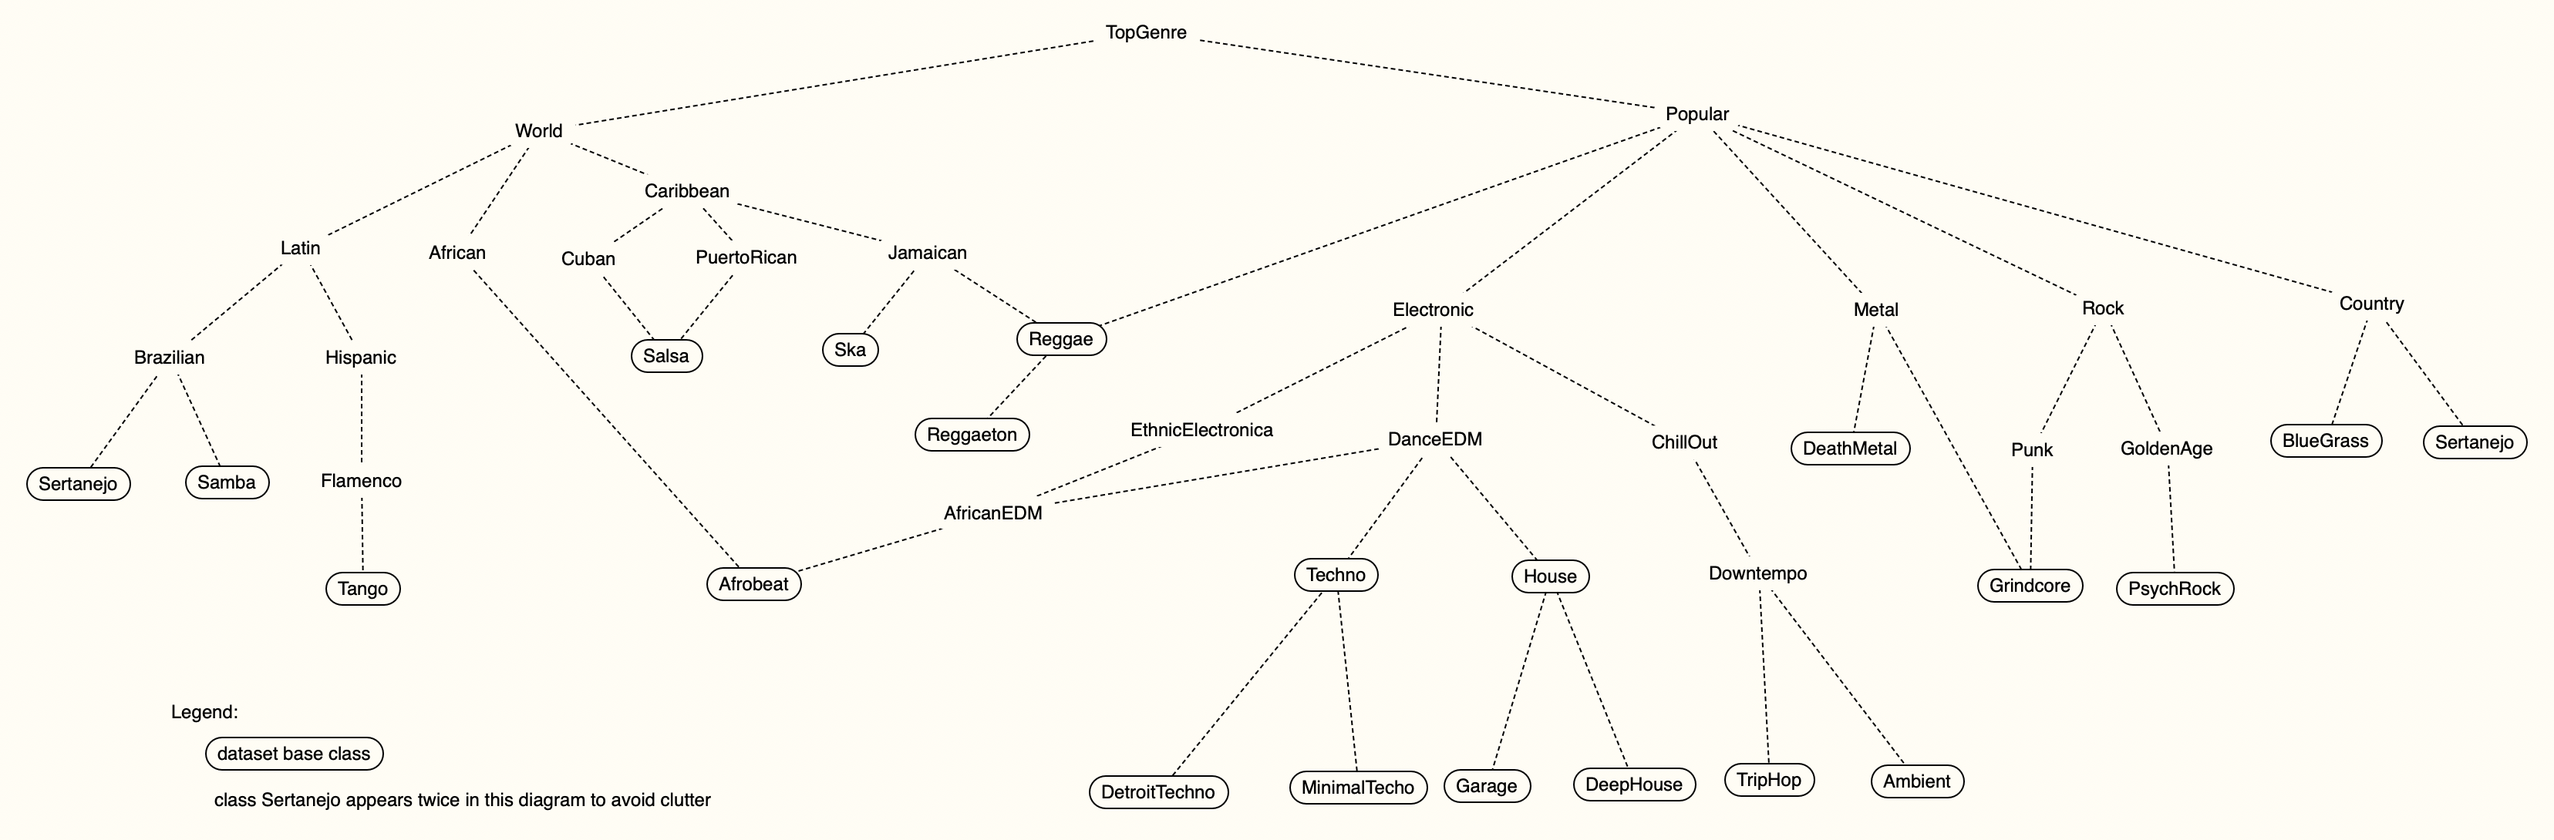
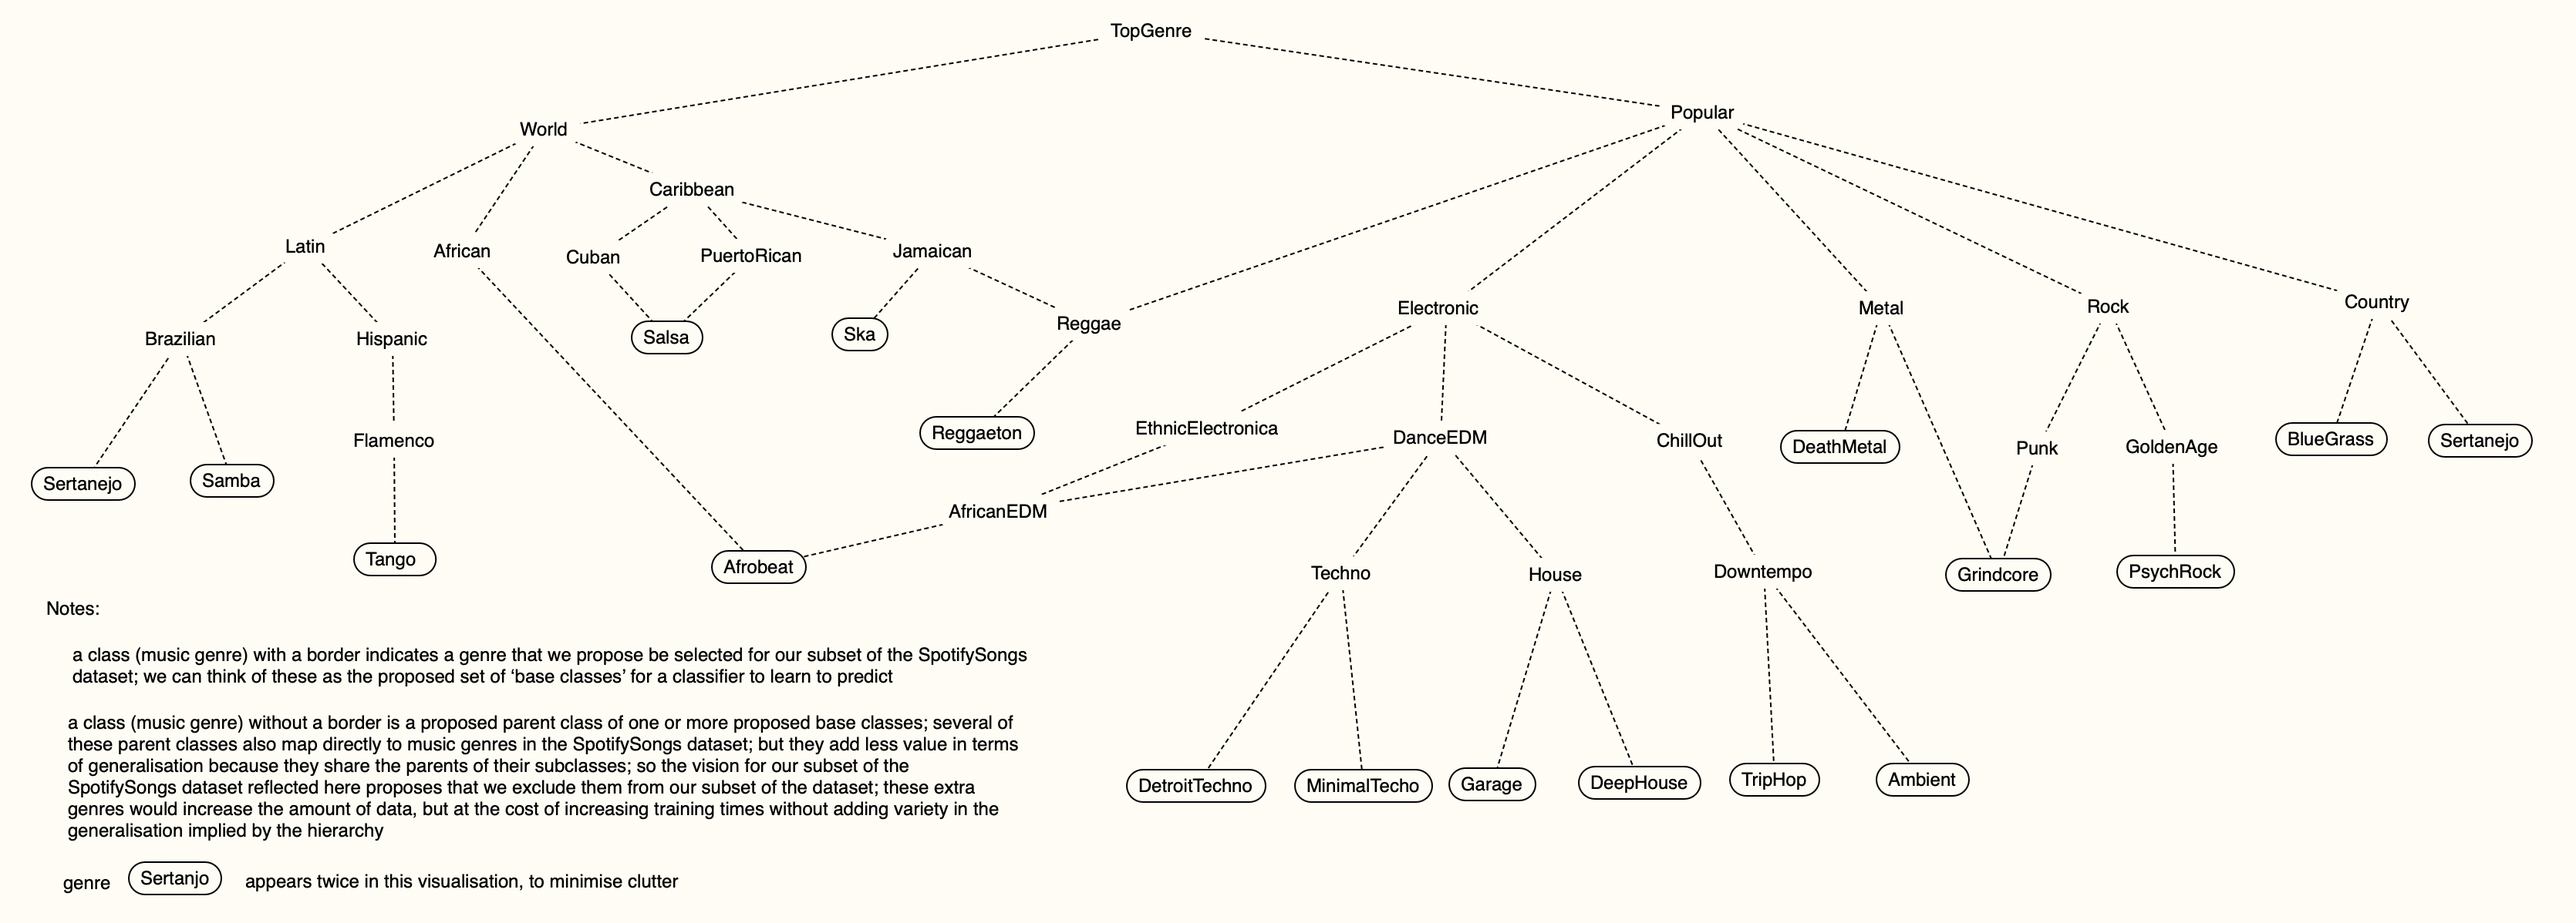
update

diff --git a/README.md b/README.md
@@ -23,15 +23,19 @@ available at:
 * a script for getting familiar with the dataset
 * performs some rudimentary exploratory data analysis
 * feel free to use it as a starting point for evaluating the dataset
-* download the dataset; place it somewhere on your local drive; adjust the directory locations in the script; run each section and inspect the results written to your console
+* download the dataset; place it somewhere on your local drive; adjust the directory locations in the script; run the script section-by-section and inspect the results written to your IDE's console
 
 `The 114 track genres.txt`
-* a listing of the 114 track genres (classes) in the dataset
+* a listing of the 114 unique track genres (classes) in the dataset
 
-the idea behind working with this dataset
-* 114 classes (music genres) is more than we need or want, but that's ok, we don't need to use the whole dataset; we can select a subset whose shape we like
-* because the dataset is so nicely balanced, we can select whichever subset of music genres we prefer and still have a perfectly balanced dataset with enough data that we can safely split the master subset into training, validation and test subsets
-* the domain of music genres lends itself to class hierarchy creation; the domain is both flexible and familiar; crafting a reasonable companion music genre class hierarchy looks feasible
+why this dataset feels like a good candidate:
+* for me, the dataset has several attractive features that suit our needs
+* 114 classes (music genres) is a lot, but that's ok: we don't need to use them all; we can select a subset of music genres that a) gives us a moderate number of (base) classes and b) facilitates the quick design of a custom class hierarchy of suitable size, variety and complexity
+* music genre classification is a domain that's flexible and familiar; our prospects for designing a custom music genre class hierarchy that fits the dataset and our experimental needs (for reasonable variety and complexity in the generalisation implied by the hierarchy) are good
+* each music genre has exactly 1000 data samples; so no matter which subset of music genres we select, we'll still have a perfectly balanced dataset in the end; so we've got full freedom to choose a subset of music genres that facilitate the design of a class hierarchy with characteristics we like and want
+* if we select something on the order of, say, N=20 music genres (base classes), we'll have a dataset of 20,000 samples; that leaves plenty of scope for further splitting the data into reasonably-sized (and balanced) training, validation and test sets
+* a dataset of 20,000 to 30,000 samples, say, should mean training will still be fast and easy on laptops; no need to mess with GPUs and cloud platforms and long training turn-around times
+* the flat, friendly features of this tabular dataset mean that much of the code and experiments already in place should be little impacted by migrating from the Zoo dataset 
 
 datawrangling
 * the exploratory data analysis suggests some data wrangling of the input features may be appropriate
@@ -42,15 +46,17 @@ datawrangling
 # The MusicGenres OWL class hierarchy
 
 `MusicGenres.ttl`
-* a custom OWL class hierarchy of music genres
-* it's just an example or starting point for modification and/or reduction or extension
-* current number of base classes (track_genres) from SpotifySongs dataset: 20
-* current total number of classes in hierarchy: 43
-* the corresponding subset of the SpotifySongs dataset would have 20 * 1000 = 20,000 data samples
+* an initial attempt at a custom OWL class hierarchy of music genres
+* we can try it as-is, or use it as a starting point for further development
+* current total number of classes (music genres) in the hierarchy: 43
+* many of the classes (music genres) in the hierarchy map directly to track_genres in the SpotifySongs dataset; but, as is reflected in the class hierarchy visualisation (by class names surrounded with borders), we are currently proposing that only 17 of the genres be included in our subset of the SpotifySongs dataset
+* the corresponding subset of the SpotifySongs dataset would have 17 * 1000 = 17,000 data samples
+* the class hierarchy adjacency matrix would be 43 x 43
 
 `MusicGenres_class_hierarchy.png`
 * a visualisation of the MusicGenres OWL class hierarchy
 ![MusicGenres](MusicGenres_class_hierarchy.png "MusicGenres OWL class hierarchy")
+* class names surrounded with borders indicate the genres from the SpotifySongs dataset that we propose be included in our subset of the dataset
 
 Influences that helped shape the design of the MusicGenres OWL class hierarchy
 * https://musicmap.info/
